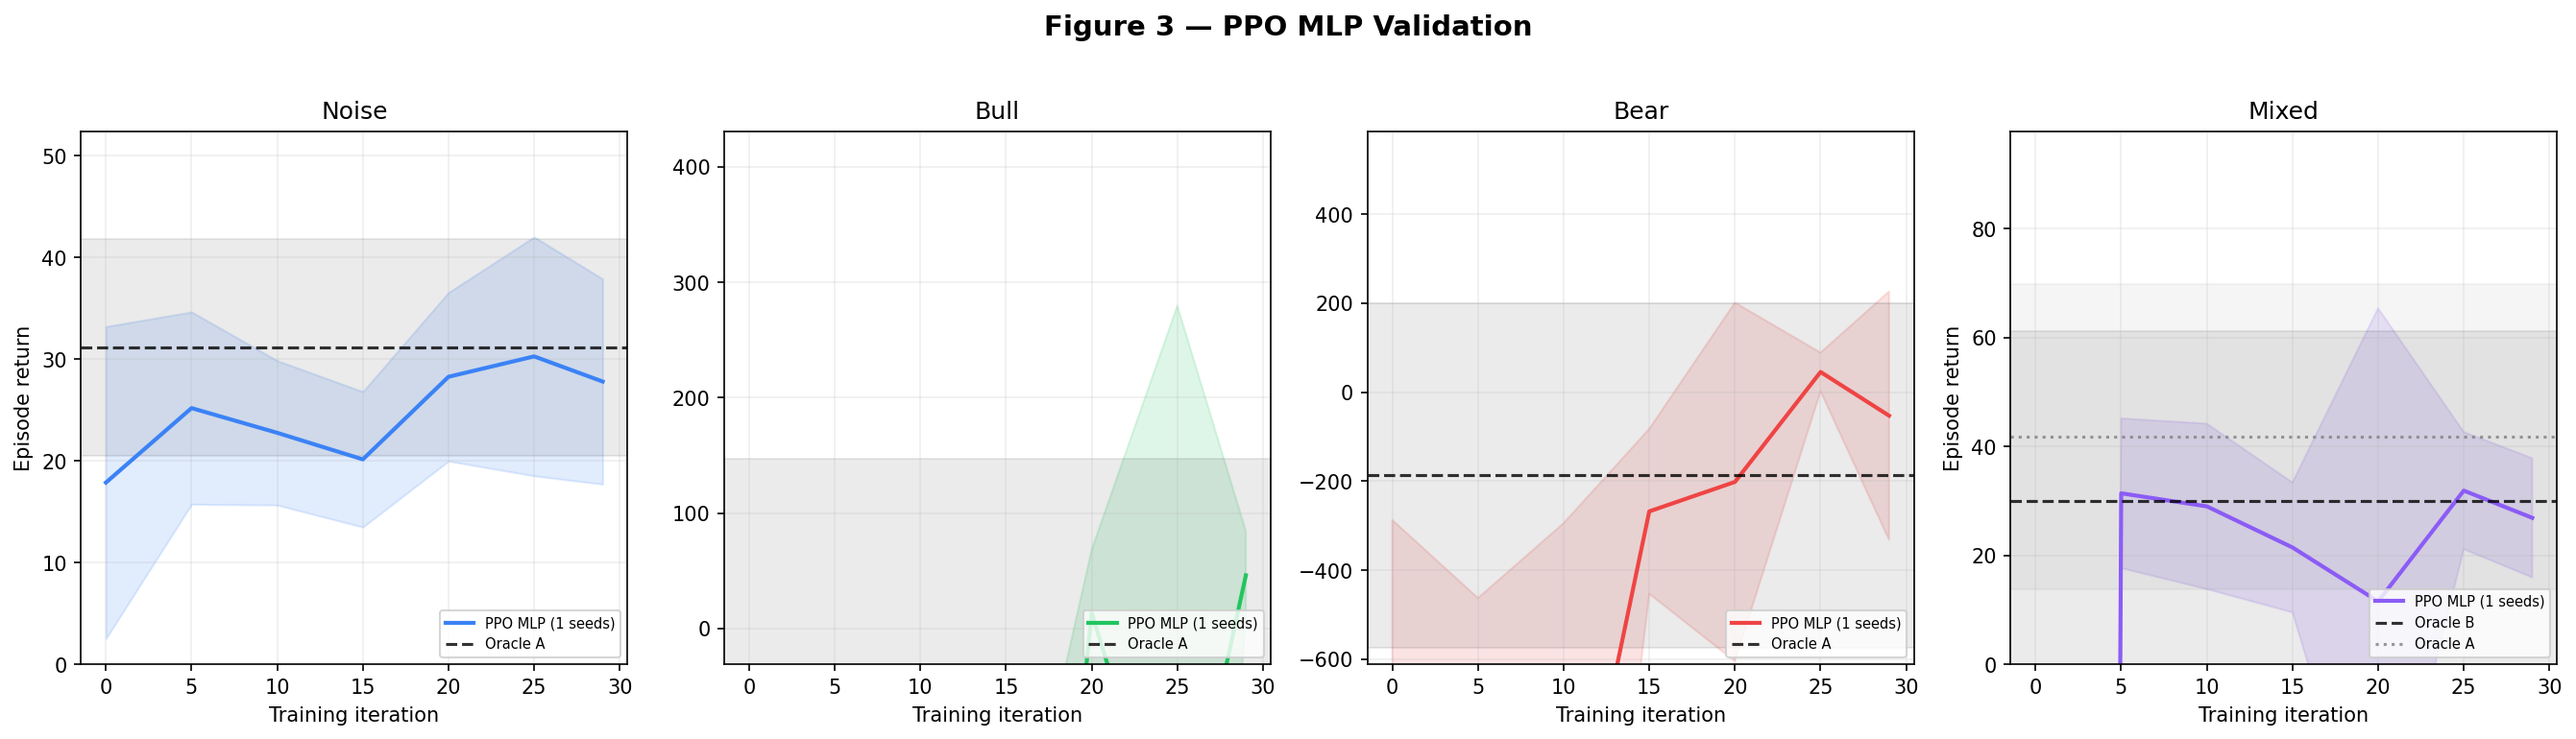
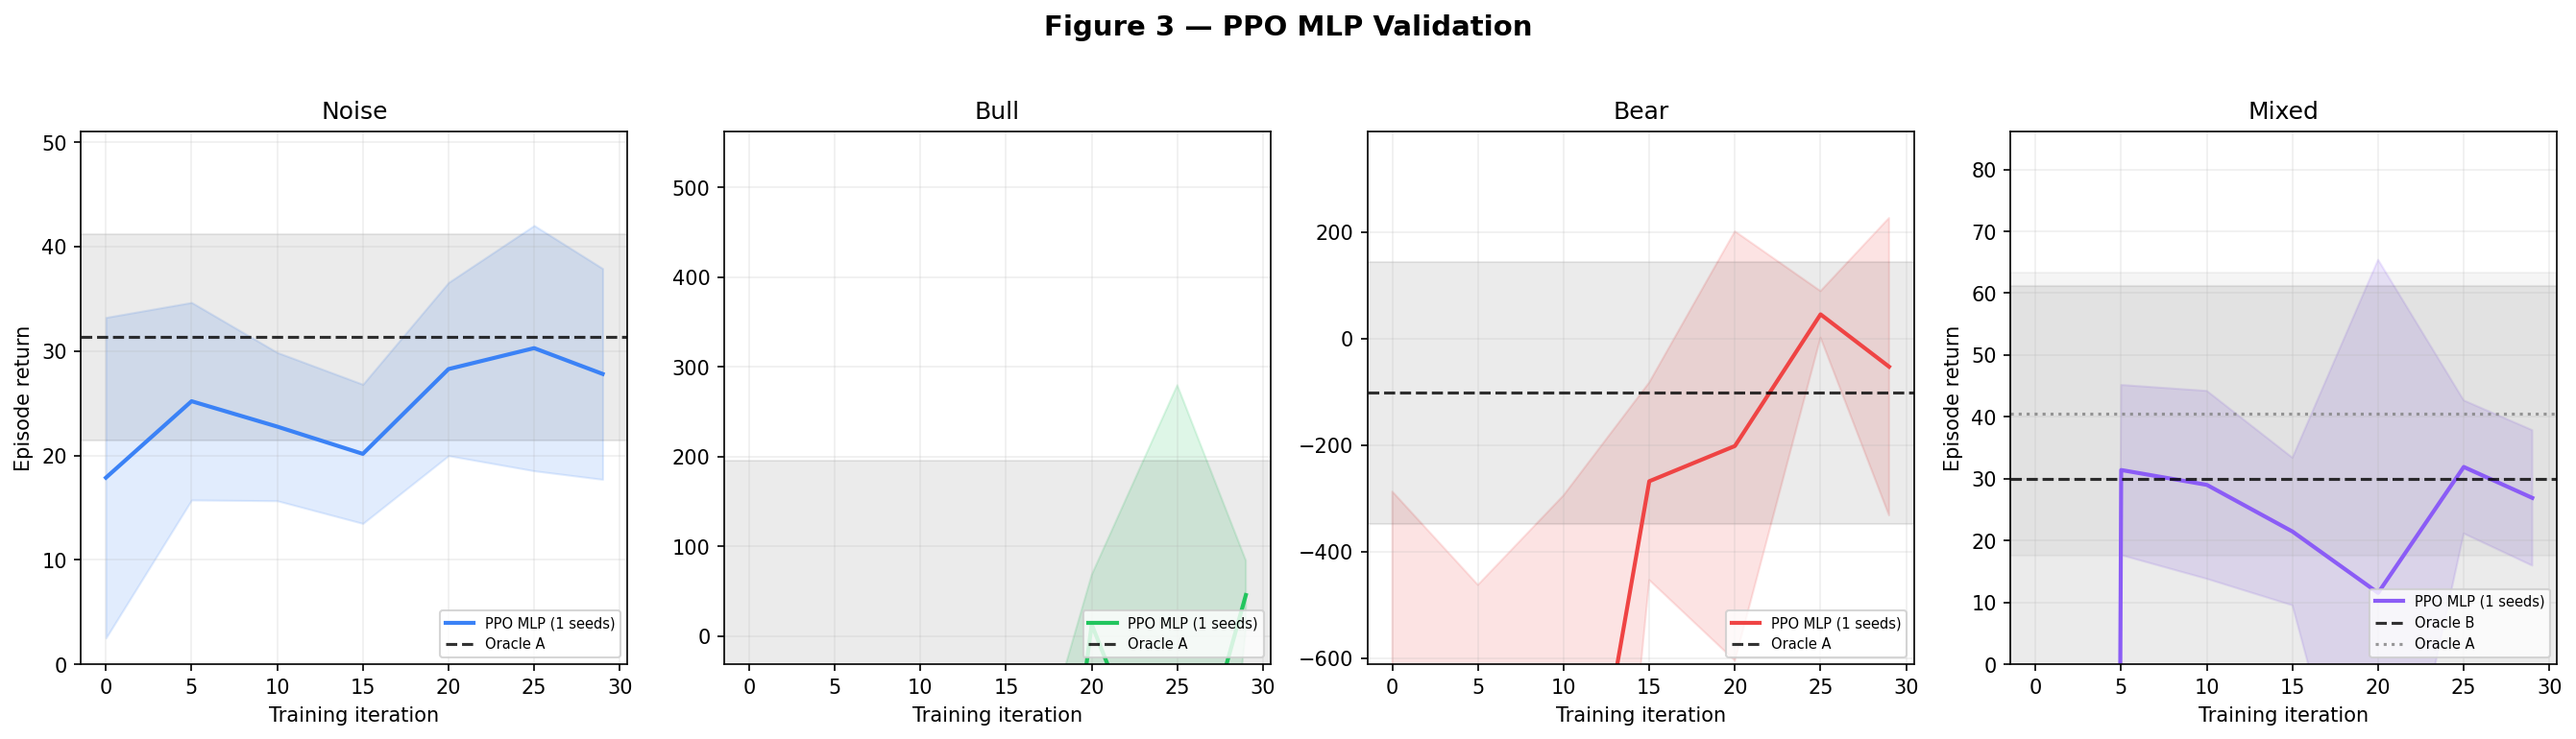
proper run needed

diff --git a/scripts/train_ppo.py b/scripts/train_ppo.py
@@ -212,16 +212,6 @@ def evaluate_returns(key, model, params, n_episodes):
     return episode_returns
 
 
-def compute_baseline_returns(key, params, n_episodes):
-    """Compute random (action=0) baseline episode returns."""
-    def random_policy(k, obs):
-        return jnp.int32(0)
-
-    keys = jax.random.split(key, n_episodes)
-    traj = jax.vmap(rollout_episode, in_axes=(0, None, None))(
-        keys, random_policy, params)
-    return jnp.sum(traj["rewards"], axis=1)
-
 
 def compute_oracle_a_returns(key, params, oracle_a_policy, n_episodes):
     """Simulate Oracle A using full-episode rollouts.
@@ -387,25 +377,19 @@ def compute_oracle_b_episode_returns(params, n_episodes):
 
 
 def compute_baselines(params, regime, n_episodes=256):
-    """Compute random and Oracle A returns for a given regime setting."""
+    """Compute Oracle A (and Oracle B for mixed) returns for a given regime."""
     env_params = params._replace(locked_regime=regime)
     regime_name = REGIME_NAMES[regime]
 
     key = jax.random.PRNGKey(9999)
-    k_rand, k_oracle = jax.random.split(key)
-
-    # Random baseline
-    rand_returns = compute_baseline_returns(k_rand, env_params, n_episodes)
-    random_mean = float(jnp.mean(rand_returns))
 
     # Oracle A
     oracle_a_returns = compute_oracle_a_returns(
-        k_oracle, env_params, None, n_episodes)
+        key, env_params, None, n_episodes)
     oracle_a_mean = float(np.mean(oracle_a_returns))
 
     result = {
         "regime": regime_name,
-        "random_mean_return": random_mean,
         "oracle_a_mean_return": oracle_a_mean,
         "oracle_a_std_return": float(np.std(oracle_a_returns)),
     }
@@ -594,8 +578,7 @@ def main():
         ob_str = ""
         if "oracle_b_mean_return" in bl:
             ob_str = f"  oracle_b={bl['oracle_b_mean_return']:.1f}"
-        print(f"    {name:>6s}: random={bl['random_mean_return']:.1f}  "
-              f"oracle_a={bl['oracle_a_mean_return']:.1f}{ob_str}  "
+        print(f"    {name:>6s}: oracle_a={bl['oracle_a_mean_return']:.1f}{ob_str}  "
               f"({time.time()-t0:.1f}s)")
 
     # --- Train ---
@@ -626,8 +609,7 @@ def main():
                   f"({result['train_time']:.0f}s)")
 
     # --- Gate check (locked regimes must converge near Oracle A) ---
-    # Uses (PPO - random) / (Oracle_A - random) > 0.8 for locked regimes.
-    # This works for both positive and negative Oracle A returns.
+    # Uses reward/step ratio: PPO_rps / Oracle_A_rps > 0.8 for locked regimes.
     print("\n" + "=" * 60)
     gate_pass = True
     for name, rid in regimes:
@@ -635,20 +617,14 @@ def main():
             continue  # mixed doesn't need to match Oracle A
         runs = [r for r in all_results if r["regime"] == name]
         bl = baselines[name]
-        denom = bl["oracle_a_mean_return"] - bl["random_mean_return"]
-        finals = []
-        for r in runs:
-            final = r["mean_returns"][-1]
-            frac = (final - bl["random_mean_return"]) / denom if denom > 0 else 0
-            finals.append(frac)
-        mean_frac = np.mean(finals)
-        passed = mean_frac > 0.8
+        oracle_rps = bl["oracle_a_mean_return"] / t_ep
+        mean_rps = np.mean([r["mean_returns"][-1] / t_ep for r in runs])
+        frac = mean_rps / oracle_rps if oracle_rps > 0 else 0
+        passed = frac > 0.8
         gate_pass = gate_pass and passed
         status = "PASS" if passed else "FAIL"
-        mean_rps = np.mean([r["mean_returns"][-1] / t_ep for r in runs])
-        oracle_rps = bl["oracle_a_mean_return"] / t_ep
         print(f"  {name:>6s}: reward/step = {mean_rps:.4f}  "
-              f"(oracle_a = {oracle_rps:.4f}, convergence = {mean_frac:.3f})  [{status}]")
+              f"(oracle_a = {oracle_rps:.4f}, convergence = {frac:.3f})  [{status}]")
 
     print(f"\n  GATE: {'PASS' if gate_pass else 'FAIL'}")
     if not gate_pass:
